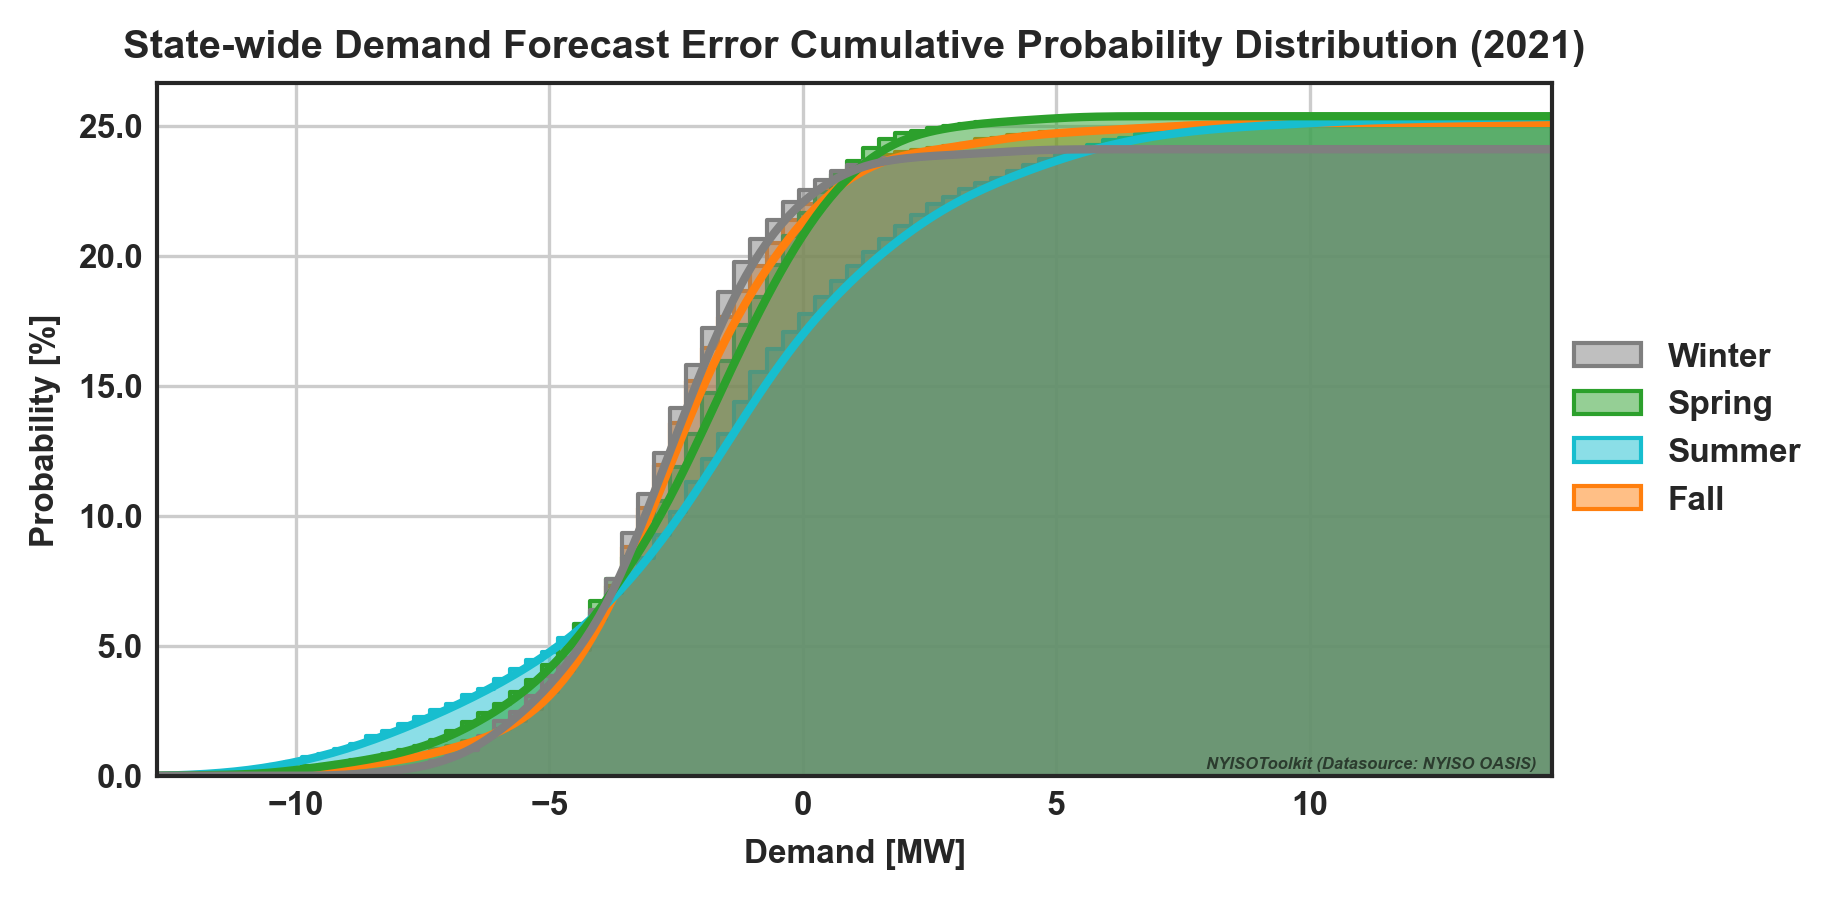
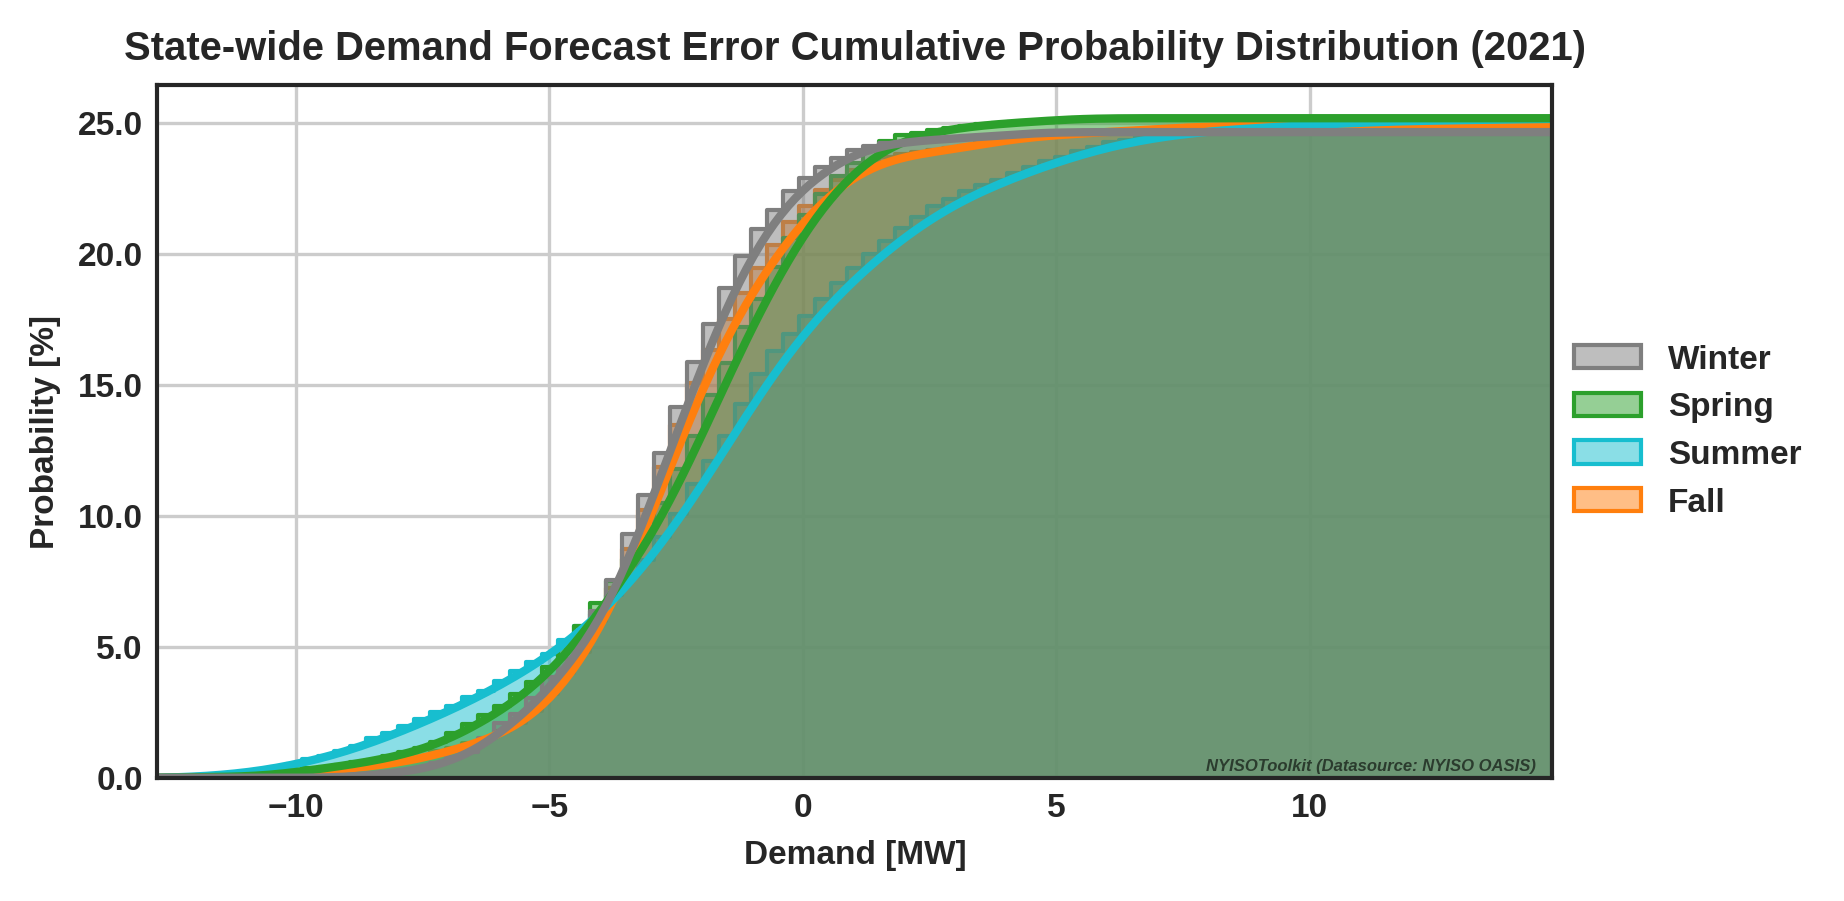
removed transparent background

diff --git a/nyisotoolkit/nyisovis/nyisovis.py b/nyisotoolkit/nyisovis/nyisovis.py
@@ -165,7 +165,7 @@ class NYISOVis:
         
         #Save
         file = pl.Path(self.out_dir, f'{self.year}_energy_generation_{f}.png')
-        fig.savefig(file, bbox_inches='tight', transparent=True)
+        fig.savefig(file, bbox_inches='tight', transparent=False)
 
     def tables_carbon_free_timeseries(self, f='D'):
         """Gathers datasets needed to produce fig_carbon_free_timeseries
@@ -258,7 +258,7 @@ class NYISOVis:
         
         #Save
         file = pl.Path(self.out_dir, f'{self.year}_carbon_free_timeseries_{f}.png')
-        fig.savefig(file, bbox_inches='tight', transparent=True)
+        fig.savefig(file, bbox_inches='tight', transparent=False)
         return tables
             
     def fig_carbon_free_year(self):
@@ -325,7 +325,7 @@ class NYISOVis:
         
         #Save
         file = pl.Path(self.out_dir,f'{self.year}_carbon_free_year.png')
-        fig.savefig(file, bbox_inches='tight', transparent=True)
+        fig.savefig(file, bbox_inches='tight', transparent=False)
         
     def fig_decarbonization_heatmap(self):
         """Creates a figure depicting an overview of the seasonal and daily carbon-free operation.
@@ -369,7 +369,7 @@ class NYISOVis:
                 
         #Save
         file = pl.Path(self.out_dir,f'{self.year}_decarbonization_heatmap.png')
-        fig.savefig(file, bbox_inches='tight', transparent=True)
+        fig.savefig(file, bbox_inches='tight', transparent=False)
 
     def fig_decarbonization_clock(self):
         """Creates a figure depicting 24 hour clock of the carbon-free operation of the average day.
@@ -418,7 +418,7 @@ class NYISOVis:
         
         # Save
         file = pl.Path(self.out_dir,f'{self.year}_decarbonization_clock.png')
-        fig.savefig(file, bbox_inches='tight', transparent=True)
+        fig.savefig(file, bbox_inches='tight', transparent=False)
     
     def fig_demand_pdf(self, cumulative=False):
         """Creates a figure of the year's demand probability density function."""
@@ -437,7 +437,7 @@ class NYISOVis:
             file = pl.Path(self.out_dir,f'{self.year}_demand_cumulative_pdf.png')
         else:
             file = pl.Path(self.out_dir,f'{self.year}_demand_pdf.png')
-        fig.savefig(file, bbox_inches='tight', transparent=True)
+        fig.savefig(file, bbox_inches='tight', transparent=False)
     
     def fig_demand_forecast_error(self, cumulative=False):
         load = NYISOData(dataset="load_h", year=self.year).df.tz_convert('US/Eastern')["NYCA"] #MW
@@ -458,7 +458,7 @@ class NYISOVis:
             file = pl.Path(self.out_dir,f'{self.year}_demand_forecast_error_cumulative_pdf.png')
         else:
             file = pl.Path(self.out_dir,f'{self.year}_demand_forecast_error_pdf.png')
-        fig.savefig(file, bbox_inches='tight', transparent=True)
+        fig.savefig(file, bbox_inches='tight', transparent=False)
 
     def fig_price_pdf(self, rt, cumulative = False):
         """Creates a figure of the state-wide average energy price probability distribution.
@@ -477,7 +477,7 @@ class NYISOVis:
             file = pl.Path(self.out_dir,f'{self.year}_{da_rt}_price_cumulative_pdf.png')
         else:
             file = pl.Path(self.out_dir,f'{self.year}_{da_rt}_price_pdf.png')
-        fig.savefig(file, bbox_inches='tight', transparent=True)
+        fig.savefig(file, bbox_inches='tight', transparent=False)
         
     def fig_price_difference_pdf(self, cumulative = False):
         rt_price = table_load_weighted_price(year=self.year, rt=True).resample("h").mean() #$/MWh
@@ -496,7 +496,7 @@ class NYISOVis:
             file = pl.Path(self.out_dir,f'{self.year}_price_difference_cumulative_pdf.png')
         else:
             file = pl.Path(self.out_dir,f'{self.year}_price_difference_pdf.png')
-        fig.savefig(file, bbox_inches='tight', transparent=True)
+        fig.savefig(file, bbox_inches='tight', transparent=False)
     
     def fig_carbon_free_years(self):
         """Todo: stacked area chart over time using nyisostat annual summary"""

diff --git a/nyisotoolkit/nyisodata/nyisodata.py b/nyisotoolkit/nyisodata/nyisodata.py
@@ -95,7 +95,7 @@ class NYISOData:
     def arg_validation(self):
         """Checks if dataset and year is available"""
         if self.dataset not in SUPPORTED_DATASETS:
-            raise Exception(f"{self.dataset} is not the name of a supported dataset! Supported datasets include:\# %%{SUPPORTED_DATASETS}")
+            raise Exception(f"{self.dataset} is not the name of a supported dataset! Supported datasets include:{SUPPORTED_DATASETS}")
         elif (int(self.year)<=2017) or (int(self.year)>utils.current_year()):
             raise Exception(f"{self.year} is not supported. Only 2018-{utils.current_year()} is supported.")
 
